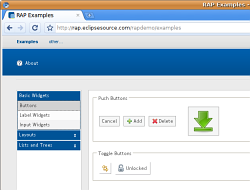
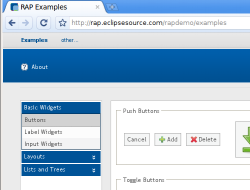
updated demo page

diff --git a/demos.php b/demos.php
@@ -24,7 +24,7 @@ $html = <<<EOHTML
   <table width="750" border="0" cellspacing="5" cellpadding="5">
     <tr>
       <td width="250">
-        <a href="http://rap.eclipsesource.org/rapdemo/examples" target="_blank">
+        <a href="http://rap.eclipsesource.com/rapdemo/examples" target="_blank">
           <img src="images/demos/examples.png" style="border: 1px solid #666;"/>
         </a>
       </td>
@@ -33,7 +33,7 @@ $html = <<<EOHTML
           RAP Examples
         </h2>
         <p>
-          <a href="http://rap.eclipsesource.org/rapdemo/examples" target="_blank">
+          <a href="http://rap.eclipsesource.com/rapdemo/examples" target="_blank">
             See the examples online
           </a>
         </p>
@@ -50,7 +50,7 @@ $html = <<<EOHTML
   <table width="750" border="0" cellspacing="5" cellpadding="5">
     <tr>
       <td width="250">
-        <a href="http://rap.eclipsesource.org/rapdemo/rms" target="_blank">
+        <a href="http://rap.eclipsesource.com/rapdemo/rms" target="_blank">
           <img src="images/demos/webworkbench1.png" style="border: 1px solid #666;"/>
         </a>
       </td>
@@ -59,7 +59,7 @@ $html = <<<EOHTML
           RAP Workbench Demo
         </h2>
         <p>
-          <a href="http://rap.eclipsesource.org/rapdemo/rms" target="_blank">
+          <a href="http://rap.eclipsesource.com/rapdemo/rms" target="_blank">
             See a workbench demo online
           </a>
         </p>
@@ -68,9 +68,9 @@ $html = <<<EOHTML
         ready it shows a good bunch of the framework's possibilities.</p>
         <p>
         To demonstrate the NLS support, translations for 
-        <a href="http://rap.eclipsesource.org/rapdemo/rms?locale=en" target="_blank">English</a>, 
-        <a href="http://rap.eclipsesource.org/rapdemo/rms?locale=de" target="_blank">German</a> and 
-        <a href="http://rap.eclipsesource.org/rapdemo/rms?locale=zh" target="_blank">Chinese</a> 
+        <a href="http://rap.eclipsesource.com/rapdemo/rms?locale=en" target="_blank">English</a>, 
+        <a href="http://rap.eclipsesource.com/rapdemo/rms?locale=de" target="_blank">German</a> and 
+        <a href="http://rap.eclipsesource.com/rapdemo/rms?locale=zh" target="_blank">Chinese</a> 
         are available. The latter requires your browser to support East 
         Asian languages.</p> 
         <p>Please note, the example data will be reset regularly.</p>
